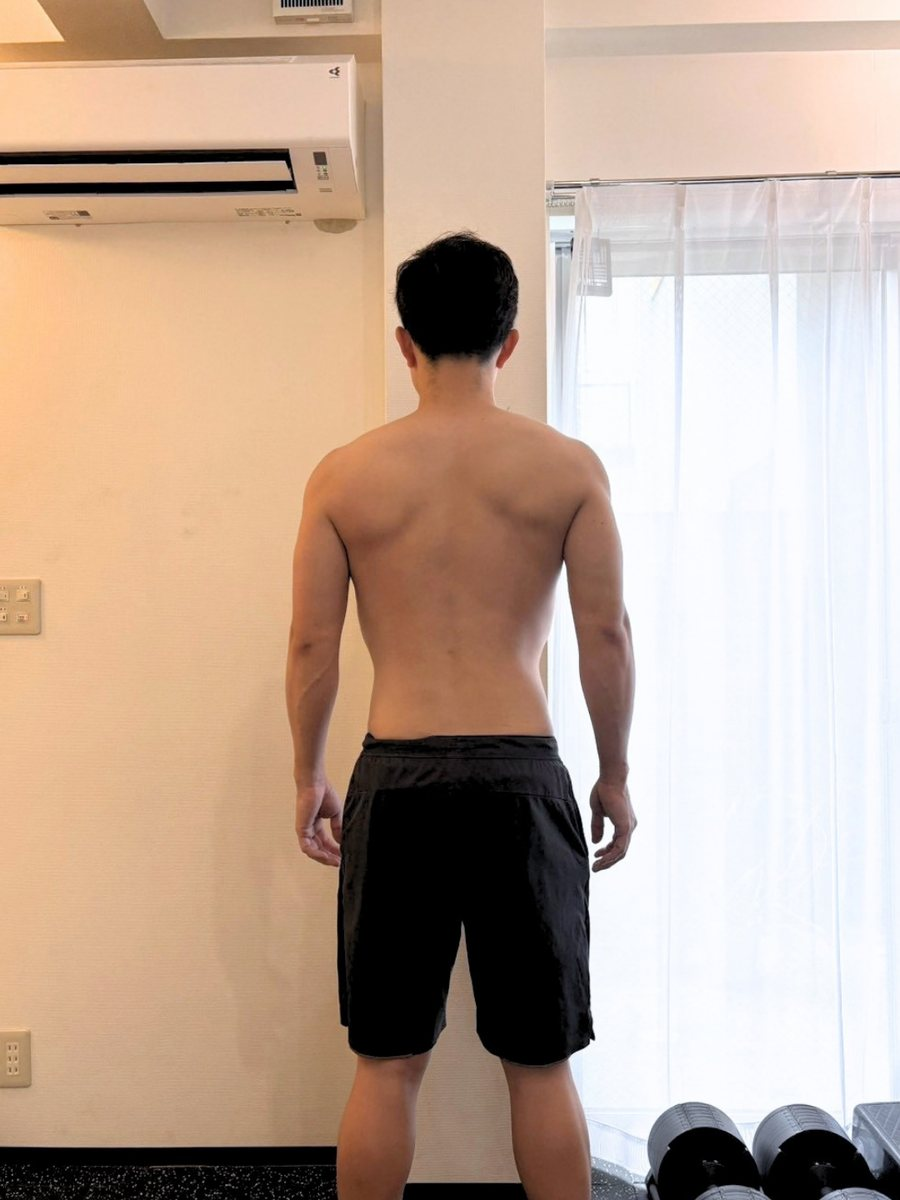
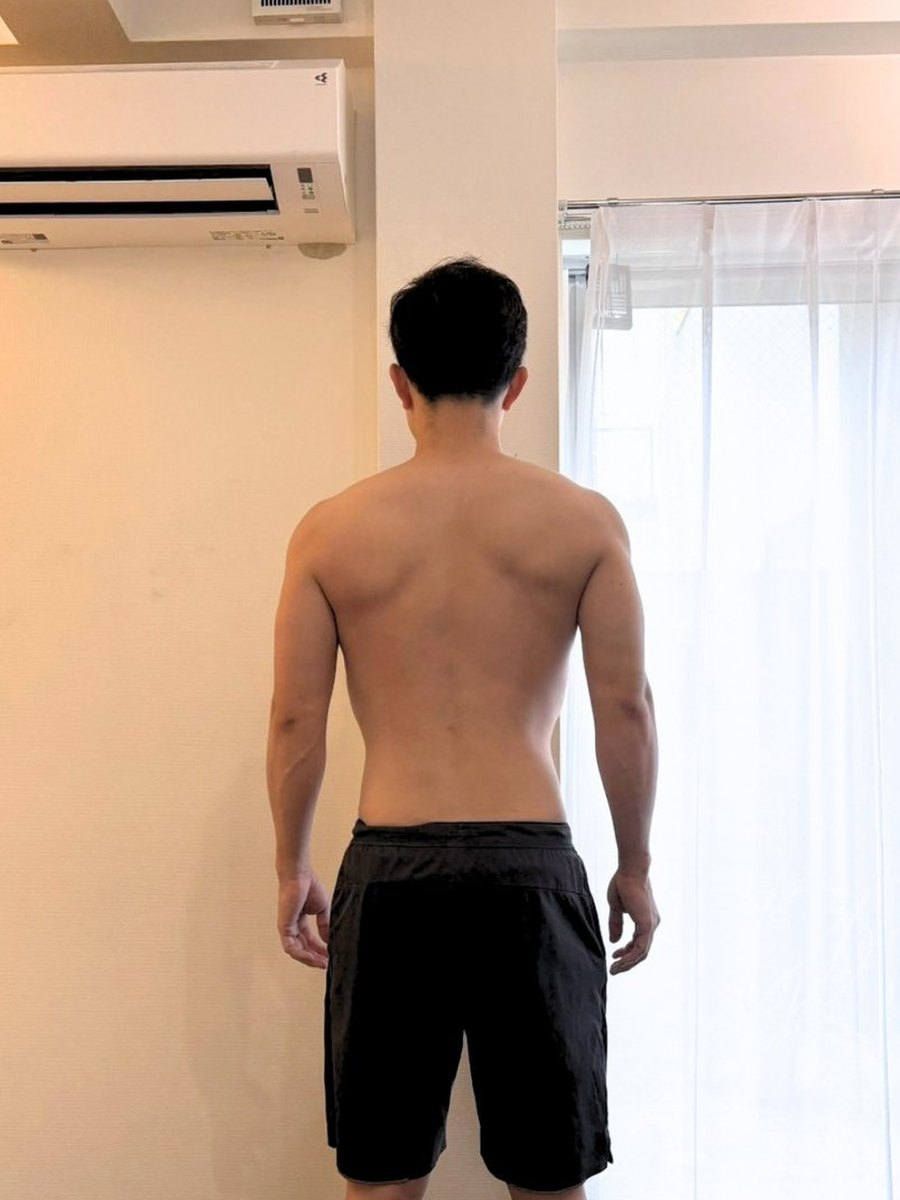
fix: トレーナー文面・料金注釈・人物1の写真を調整

diff --git a/monitor-bulkup.html b/monitor-bulkup.html
@@ -421,6 +421,10 @@ body.tm-lock{overflow:hidden}
 /* ═══ 理由カード：タイトル→写真→詳細 ═══ */
 /* ═══ 変化の記録：角度を横スワイプで切り替える ═══ */
 .cgw{display:grid;gap:22px;max-width:720px;margin:0 auto}
+/* 記録とクチコミを交互に置く。1列で読ませ、種別の見出しで取り違えを防ぐ */
+.mix{display:grid;gap:20px;max-width:620px;margin:0 auto}
+.cg-kind{font-family:'Shippori Mincho',serif;font-size:11px;letter-spacing:.14em;color:var(--gold);
+  padding:11px 18px 0}
 .cg{background:#fff;border-radius:var(--r);box-shadow:0 4px 20px rgba(27,42,71,.08);overflow:hidden}
 .cg-tabs{display:flex;border-bottom:1px solid var(--bd);background:#fff}
 .cg-tabs button{flex:1;border:0;background:none;font-family:'Shippori Mincho',serif;font-size:12.5px;
@@ -464,6 +468,8 @@ body.tm-lock{overflow:hidden}
 .rc-d{font-size:var(--fs);line-height:2.05;margin:20px 26px 26px}
 /* プログラム紹介の写真は、理由カードより縦長にして見せ場を作る */
 .rc-w.tall .rc-ph{aspect-ratio:4/3}
+/* チャット画面は縦長なので、枠を正方形にして大きく見せる */
+.rc-w.tall .rc-ph.sq{aspect-ratio:1/1}
 
 .rc-d b{font-weight:500;color:var(--navy)}
 @media(max-width:600px){
@@ -980,12 +986,13 @@ footer a{color:rgba(255,255,255,.7)}
 <div class="wrap">
 
 <section class="si">
-  <h2 class="s-ttl">実際に、<br>ここまで変わっています</h2>
+  <h2 class="s-ttl">実際に短期間で<br>ここまで変わっています</h2>
   
 
-  <p class="s-lead">実際に通われた方の記録です。<br>角度のある方は、<b>横にスワイプ</b>すると切り替わります。</p>
-  <div class="cgw">
-    <div class="cg">
+  <p class="s-lead">実際に通われた方の記録と、Googleクチコミに寄せられたお声です。<br>
+角度のある方は、<b>横にスワイプ</b>すると切り替わります。</p>
+  <div class="mix">
+    <div class="cg"><div class="cg-kind">変化の記録</div>
       <div class="cg-tabs"><button type="button" class="on" onclick="cgGo(this,0)">正面</button><button type="button" class="" onclick="cgGo(this,1)">横から</button><button type="button" class="" onclick="cgGo(this,2)">背面</button></div>
       <div class="cg-track" onscroll="cgSync(this)">
         <div class="cg-pane"><div class="cg-s"><img src="images/monitor/p1-front-before.jpg" alt="Before" loading="lazy"><span class="cg-l">Before</span></div><div class="cg-s"><img src="images/monitor/p1-front-after.jpg" alt="After" loading="lazy"><span class="cg-l cg-l-a">After</span></div></div>
@@ -995,7 +1002,15 @@ footer a{color:rgba(255,255,255,.7)}
       <div class="cg-meta"><span class="cg-term">4ヶ月<i>／</i>週1回</span><span class="cg-num">−5<small>kg</small></span></div>
       <p class="cg-hint">← 横にスワイプで角度を切り替え →</p>
     </div>
-    <div class="cg">
+    <div class="vo-c">
+      <div class="vo-h">
+        <div class="vo-av">M</div>
+        <div class="vo-m"><div class="vo-st">★★★★★</div><div class="vo-nm">Google クチコミ</div></div>
+        <span class="vo-tag">筋肥大</span>
+      </div>
+      <p class="vo-t">過去他のパーソナルにも通っていましたが、ガンガン盛り上げる雰囲気や担当がちょくちょく変わるのに違和感が…。その点カミさんはとても落ち着いていて頼れる存在です。<b>1年以上見ていただき、増量も目標通り、記録も伸び続けています。</b>トレーニングが好きになり、習慣づくりができたのが何よりありがたかったです。</p>
+    </div>
+    <div class="cg"><div class="cg-kind">変化の記録</div>
       <div class="cg-tabs"><button type="button" class="on" onclick="cgGo(this,0)">正面</button><button type="button" class="" onclick="cgGo(this,1)">横から</button><button type="button" class="" onclick="cgGo(this,2)">背面</button></div>
       <div class="cg-track" onscroll="cgSync(this)">
         <div class="cg-pane"><div class="cg-s"><img src="images/monitor/p2-front-before.jpg" alt="Before" loading="lazy"><span class="cg-l">Before</span></div><div class="cg-s"><img src="images/monitor/p2-front-after.jpg" alt="After" loading="lazy"><span class="cg-l cg-l-a">After</span></div></div>
@@ -1005,39 +1020,19 @@ footer a{color:rgba(255,255,255,.7)}
       <div class="cg-meta"><span class="cg-term">3ヶ月<i>／</i>週2回</span><span class="cg-num">−6<small>kg</small></span></div>
       <p class="cg-hint">← 横にスワイプで角度を切り替え →</p>
     </div>
-    <div class="cg">
-      <div class="cg-track" onscroll="cgSync(this)">
-        <div class="cg-pane"><div class="cg-s"><img src="images/monitor/p3-front-before.jpg" alt="Before" loading="lazy"><span class="cg-l">Before</span></div><div class="cg-s"><img src="images/monitor/p3-front-after.jpg" alt="After" loading="lazy"><span class="cg-l cg-l-a">After</span></div></div>
-      </div>
-      <div class="cg-meta"><span class="cg-term">半年<i>／</i>週1〜2回</span><span class="cg-num">−10<small>kg</small></span></div>
-    </div>
-    <div class="cg">
-      <div class="cg-track" onscroll="cgSync(this)">
-        <div class="cg-pane"><div class="cg-s"><img src="images/monitor/p4-front-before.jpg" alt="Before" loading="lazy"><span class="cg-l">Before</span></div><div class="cg-s"><img src="images/monitor/p4-front-after.jpg" alt="After" loading="lazy"><span class="cg-l cg-l-a">After</span></div></div>
-      </div>
-      <div class="cg-meta"><span class="cg-term">3ヶ月<i>／</i>月3回</span><span class="cg-num">−12<small>kg</small></span></div>
-    </div>
-  </div>
-  <p class="vo-note">※ ご本人の許諾を得て掲載しています。個人の感想であり、効果を保証するものではありません。</p>
-
-  <h2 class="s-ttl" style="margin-top:var(--sec)">お客様の声</h2>
-  <p class="s-lead">Googleクチコミに寄せられた実際のお声です。</p>
-  <div class="vo">
-    <div class="vo-c">
-      <div class="vo-h">
-        <div class="vo-av">M</div>
-        <div class="vo-m"><div class="vo-st">★★★★★</div><div class="vo-nm">Google クチコミ</div></div>
-        <span class="vo-tag">筋肥大</span>
-      </div>
-      <p class="vo-t">過去他のパーソナルにも通っていましたが、ガンガン盛り上げる雰囲気や担当がちょくちょく変わるのに違和感が…。その点カミさんはとても落ち着いていて頼れる存在です。<b>1年以上見ていただき、増量も目標通り、記録も伸び続けています。</b>トレーニングが好きになり、習慣づくりができたのが何よりありがたかったです。</p>
-    </div>
     <div class="vo-c">
       <div class="vo-h">
         <div class="vo-av">T</div>
         <div class="vo-m"><div class="vo-st">★★★★★</div><div class="vo-nm">Google クチコミ</div></div>
         <span class="vo-tag">フォーム</span>
       </div>
-      <p class="vo-t">初パーソナル。オシャレなアパートの中に、筋トレ器具がしっかり揃ったジムでした。<b>沖さんに教わって、筋トレの質がめちゃくちゃ上がりました。フォームや力の入れ方のアドバイスが的確です。</b>閑静な住宅街にあって、女性でも安心して通えます。</p>
+      <p class="vo-t">初パーソナル。オシャレなアパートの中に、筋トレ器具がしっかり揃ったジムでした。<b>沖さんに教わって、筋トレの質がめちゃくちゃ上がりました。フォームや力の入れ方のアドバイスが的確です。</b></p>
+    </div>
+    <div class="cg"><div class="cg-kind">変化の記録</div>
+      <div class="cg-track" onscroll="cgSync(this)">
+        <div class="cg-pane"><div class="cg-s"><img src="images/monitor/p3-front-before.jpg" alt="Before" loading="lazy"><span class="cg-l">Before</span></div><div class="cg-s"><img src="images/monitor/p3-front-after.jpg" alt="After" loading="lazy"><span class="cg-l cg-l-a">After</span></div></div>
+      </div>
+      <div class="cg-meta"><span class="cg-term">半年<i>／</i>週1〜2回</span><span class="cg-num">−10<small>kg</small></span></div>
     </div>
     <div class="vo-c">
       <div class="vo-h">
@@ -1047,7 +1042,14 @@ footer a{color:rgba(255,255,255,.7)}
       </div>
       <p class="vo-t">体験時に丁寧に教えていただき、入会を決めました。<b>トレーニングだけでなく姿勢や食事、呼吸の仕方など細かく教えていただき</b>、まだ始めたばかりですが成長を感じており満足しています。</p>
     </div>
+    <div class="cg"><div class="cg-kind">変化の記録</div>
+      <div class="cg-track" onscroll="cgSync(this)">
+        <div class="cg-pane"><div class="cg-s"><img src="images/monitor/p4-front-before.jpg" alt="Before" loading="lazy"><span class="cg-l">Before</span></div><div class="cg-s"><img src="images/monitor/p4-front-after.jpg" alt="After" loading="lazy"><span class="cg-l cg-l-a">After</span></div></div>
+      </div>
+      <div class="cg-meta"><span class="cg-term">3ヶ月<i>／</i>月3回</span><span class="cg-num">−12<small>kg</small></span></div>
+    </div>
   </div>
+  <p class="vo-note">※ 写真とクチコミは、それぞれ別の方のものです。いずれもご本人の許諾を得て、または Googleクチコミより引用して掲載しています。個人の感想であり、効果を保証するものではありません。</p>
   <p class="vo-note">※ Googleクチコミより引用（★5.0・多数掲載）。個人の感想であり、効果を保証するものではありません。</p>
 </section>
 
@@ -1101,7 +1103,7 @@ footer a{color:rgba(255,255,255,.7)}
         <div class="rc-n">02</div>
         <div class="rc-t">毎日の食事に、個別フィードバック</div>
       </div>
-      <div class="rc-ph" data-ph="食事フィードバックの画面"><img src="images/monitor/rebuild-meal-fb.jpg" alt="毎日の食事記録へのフィードバック画面" loading="lazy"></div>
+      <div class="rc-ph sq" data-ph="食事フィードバックの画面"><img src="images/monitor/rebuild-meal-fb.jpg" alt="毎日の食事記録へのフィードバック画面" loading="lazy"></div>
       <p class="rc-d">週1回の指導では、7日のうち6日が野放しになります。本プログラムは<b>毎日の食事記録に対して個別にお返し</b>します。目標カロリーとPFCを設計し、「あと何をどれだけ足すか」を日々調整。食べられない方には、無理なく量を増やす方法からお伝えします。</p>
     </div>
     <div class="rc">
@@ -1157,10 +1159,10 @@ footer a{color:rgba(255,255,255,.7)}
           <h3 class="tr-name">沖 孟</h3>
           <span class="tr-name-en">Takeru Oki</span>
           <span class="tr-exp">指導歴 5年</span>
-          <p class="tr-bio">重要なのは体重より“見た目”。姿勢から整えることで、あなたの骨格のポテンシャルを最大限引き出し、理想のボディラインに近づけます。年間2,000件以上、多くの女性のボディラインを指導する中で確信したのは——</p>
+          <p class="tr-bio">重要なのは体重より“見た目”。姿勢から整えることで、あなたの骨格のポテンシャルを最大限引き出し、理想のボディラインに近づけます。年間2,000件以上の指導を重ねる中で確信したのは——</p>
           <button type="button" class="tr-more" onclick="openTrainerModal('oki')">続きを読む</button>
           <div class="tr-tags">
-            <span class="tr-tag">女性のボディメイク</span><span class="tr-tag">姿勢・骨盤矯正</span><span class="tr-tag">BBJファイナル</span><span class="tr-tag">一般体操指導員</span>
+            <span class="tr-tag">ボディメイク</span><span class="tr-tag">姿勢・骨盤矯正</span><span class="tr-tag">BBJファイナル</span><span class="tr-tag">一般体操指導員</span>
           </div>
           <div class="tr-ig"><a href="https://www.instagram.com/takeru_fitness_/" target="_blank"><svg viewBox="0 0 24 24"><rect x="3.5" y="3.5" width="17" height="17" rx="5"/><circle cx="12" cy="12" r="4"/><circle cx="17.2" cy="6.8" r="1" fill="var(--gold)" stroke="none"/></svg></a></div>
         </div>
@@ -1179,7 +1181,7 @@ footer a{color:rgba(255,255,255,.7)}
           <p class="tr-bio">どんな状態からでも、あなたの身体は必ず変わります。「スタイルは、生まれつきで決まっている」——そう思い込んでいませんか？違います。身体は、デザインできる。骨格という土台を活かし、狙った場所へ筋肉を足していけば——</p>
           <button type="button" class="tr-more" onclick="openTrainerModal('nakano')">続きを読む</button>
           <div class="tr-tags">
-            <span class="tr-tag">モデル・アスリート指導</span><span class="tr-tag">ヒップ育成</span><span class="tr-tag">大会日本8位</span><span class="tr-tag">英語対応</span>
+            <span class="tr-tag">モデル・アスリート指導</span><span class="tr-tag">肩・背中の育成</span><span class="tr-tag">大会日本8位</span><span class="tr-tag">英語対応</span>
           </div>
           <div class="tr-ig"><a href="https://www.instagram.com/fit_ryunosuke/" target="_blank"><svg viewBox="0 0 24 24"><rect x="3.5" y="3.5" width="17" height="17" rx="5"/><circle cx="12" cy="12" r="4"/><circle cx="17.2" cy="6.8" r="1" fill="var(--gold)" stroke="none"/></svg></a></div>
         </div>
@@ -1259,7 +1261,7 @@ footer a{color:rgba(255,255,255,.7)}
         <span class="sub">必須ではありません。顔を伏せてのご掲載も承ります。ご協力いただける範囲によって、モニター特別価格が変わります。</span></li>
     </ul>
     <p class="rq-f">これらにご協力いただける方のなかから、<br>選考のうえ5名様をお迎えします。</p>
-    <p class="rq-note">本プログラムは<b>モニター特別価格でのご提供</b>です（無償提供ではありません）。<br>金額・お支払い方法は、体験時に書面でご案内します。</p>
+    <p class="rq-note">本プログラムは<b>モニター特別価格でのご提供</b>です。<br>金額・お支払い方法は、体験時に書面でご案内します。</p>
   </div>
 </section>
 
@@ -1334,7 +1336,7 @@ footer a{color:rgba(255,255,255,.7)}
   <div class="cta-t">まずは、最適なやり方を<br>知ることから始めませんか。</div>
   <p class="cta-s">まずはトレーナーに、気軽にご相談ください。<br>あなたの骨格と目標をうかがったうえで、<br>具体的な進め方をその場でご案内します。</p>
   <a class="cta-b" href="https://reservation.tokowaka-gym.com/" data-cta="footer" onclick="return goRsv(this)">モニターに申し込む</a>
-  <p class="cta-note">モニター特別価格でのご案内です（無償提供ではありません）<br><b>10月31日（金）応募締切</b>／選考のうえ5名様をお迎えします</p>
+  <p class="cta-note">モニター特別価格でのご案内です<br><b>10月31日（金）応募締切</b>／選考のうえ5名様をお迎えします</p>
 </div>
 
 <footer>
@@ -1369,14 +1371,14 @@ var TRAINER_PROFILES={
  oki:{name:'沖 孟',en:'Takeru Oki',short:'沖',ig:'https://www.instagram.com/takeru_fitness_/',
   img:'https://tokowaka-gym.com/images/trainer03.jpg',
   badges:['BBJファイナリスト','一般体操指導員','指導歴5年'],
-  target:'見た目・ラインを気にする女性へ',
+  target:'体重より見た目を変えたい方へ',
   hook:'「頑張らないのに、気づけば身体が変わってる。」',
   sub:'重要なのは体重より<strong>“見た目”</strong>。姿勢から整えることで、あなたの骨格のポテンシャルを最大限引き出し、理想のボディラインに近づけます。',
   secs:[
-   {label:'CONCEPT｜骨格矯正トレーニング',img:'trainer-baf/oki-ideal.jpg',ph:'超理想像写真',body:'年間2,000件以上、たくさんの女性のボディラインを指導する中で、<strong>『女性のボディメイクこそ、高度な技術が必要』</strong>と確信しました。<br>トレーニングは筋肉を大きく成長させる行為です。だからこそやみくもにトレーニングをしてしまうと、ボディバランスを崩し、女性らしい綺麗なボディラインをつくることはできません。<br>そこで私があみだしたメソッドが、<strong>骨格矯正トレーニング</strong>です。まずは根本の歪みを整え、全体のシルエットから逆算して筋肉をつけていくことで、女性らしい健康的な美ボディを作ります。'},
+   {label:'CONCEPT｜骨格矯正トレーニング',img:'trainer-baf/oki-ideal.jpg',ph:'超理想像写真',body:'年間2,000件以上の指導を重ねる中で、<strong>『ボディメイクこそ、高度な技術が必要』</strong>と確信しました。<br>トレーニングは筋肉を大きく成長させる行為です。だからこそやみくもにトレーニングをしてしまうと、ボディバランスを崩し、狙った形に仕上げることはできません。<br>そこで私があみだしたメソッドが、<strong>骨格矯正トレーニング</strong>です。まずは根本の歪みを整え、全体のシルエットから逆算して筋肉をつけていくことで、バランスの取れた身体を作ります。'},
    {label:'STORY｜私自身の物語',ba:true,imgBefore:'trainer-baf/oki-before.jpg',imgAfter:'trainer-baf/oki-after.jpg',body:'かつての私は、<strong>自己流でどれだけ努力しても、思うように筋肉がつきませんでした。</strong>頑張っているのに体が変わらない——その悔しさは、痛いほど分かります。<br>変わったのは、自己流をやめて「骨格から整えて、狙った筋肉へ正しく効かせる」ことにたどり着いてから。自分の体が驚くほど変わり、最終的には<strong>ベストボディジャパンのファイナル</strong>の舞台へ立てました。<br>やり方さえ正しければ、体は必ず応えてくれる。変われない人なんて、いません。'},
    {label:'SESSION｜あなたへ',img:'trainer-baf/oki-session.jpg',ph:'セッション風景',body:'「たった一回のトレーニングで、見た目がスッキリした」「無理してないのに、いい姿勢が自然ととれる」——お客様から、そんな声をよくいただきます。<br>秘密は、歪みを整えて、あなたが本来持っている正しい姿勢に戻してあげること。それだけで、体は驚くほど引き締まって見えます。<br>だから、運動が苦手な初心者さんでも大丈夫。<strong>最初から苦しいトレーニングはしません。</strong>歪みを整えて、体の正しい使い方を覚えていくのが第一歩です。<br>まずはお気軽に、姿勢診断でご自身の現在地を知りに来てください。'}],
-  tags:['女性のボディメイク','姿勢・骨盤矯正','不調改善（肩こり・腰痛）','BBJファイナル','一般体操指導員']},
+  tags:['ボディメイク','姿勢・骨盤矯正','不調改善（肩こり・腰痛）','BBJファイナル','一般体操指導員']},
  nakano:{name:'中野 龍之介',en:'Ryunosuke Nakano',short:'中野',ig:'https://www.instagram.com/fit_ryunosuke/',
   img:'https://tokowaka-gym.com/images/trainer01.jpg',
   badges:['大会日本8位','オーナートレーナー','指導歴6年','英語対応'],
@@ -1385,10 +1387,10 @@ var TRAINER_PROFILES={
   sub:'どんな状態からでも、あなたの身体は必ず変わります。',
   secs:[
    {label:'CONCEPT｜身体はデザインできる',img:'trainer-baf/nakano-ideal.jpg',ph:'超理想像写真',body:'「スタイルは、生まれつきで決まっている」——そう思い込んでいませんか？違います。<strong>身体は、デザインできる。</strong><br>骨格という土台を活かし、狙った場所へ筋肉を足していけば、あなたの身体は思い通りに変わります。<br>「運動が苦手だから」と、諦める必要もありません。難しく見える動きも、<strong>やり方を知らないだけ</strong>。段階的なステップを踏めば、誰でもできるようになります。'},
-   {label:'STORY｜私自身の物語',ba:true,imgBefore:'trainer-baf/nakano-before.jpg',imgAfter:'trainer-baf/nakano-after.jpg',body:'私はかつて、海外モデルやミスコンファイナリスト、日本代表アスリートを指導していました。でもある時期、<strong>トレーニングを完全に手放した</strong>んです。<br>飛び込んだITベンチャーでの長時間労働。運動も食事もケアも後回しになり、気づけば「常に調子が悪い」「疲れが取れない」「自分の身体が好きになれない」——それが当たり前になっていました。<br>その経験から、私は忙しくても続けられる、時間効率の高いトレーニングを徹底的に研究しました。そして週1回だった頻度を段階的に増やし、<strong>たった4ヶ月で予選2位・大会日本8位</strong>を獲得。最短で成果を出す技術は、自分自身で証明しています。あなたも、必ず変われます。'},
-   {label:'SESSION｜私の強み',img:'trainer-baf/nakano-session.jpg',ph:'セッション風景',body:'<strong>「身体はデザインできる」——それを、どんなに忙しいあなたでも実現する。</strong>それが私の強みです。<br>あなたの骨格や身体の使い方を見極め、ゴールから逆算して、今のあなたに必要なことだけを最短で。実際に「3ヶ月でウエスト−13cm、体重−12kg」といった声もいただいています。<br>ヒップ育成・筋肥大・バルクアップから体型改善まで、「こんな身体になりたい」という理想があるなら、それを一緒に設計するのが私の仕事です。'},
+   {label:'STORY｜私自身の物語',ba:true,imgBefore:'trainer-baf/nakano-before.jpg',imgAfter:'trainer-baf/nakano-after.jpg',body:'私はかつて、海外モデルや日本代表アスリートを指導していました。でもある時期、<strong>トレーニングを完全に手放した</strong>んです。<br>飛び込んだITベンチャーでの長時間労働。運動も食事もケアも後回しになり、気づけば「常に調子が悪い」「疲れが取れない」「自分の身体が好きになれない」——それが当たり前になっていました。<br>その経験から、私は忙しくても続けられる、時間効率の高いトレーニングを徹底的に研究しました。そして週1回だった頻度を段階的に増やし、<strong>たった4ヶ月で予選2位・大会日本8位</strong>を獲得。最短で成果を出す技術は、自分自身で証明しています。あなたも、必ず変われます。'},
+   {label:'SESSION｜私の強み',img:'trainer-baf/nakano-session.jpg',ph:'セッション風景',body:'<strong>「身体はデザインできる」——それを、どんなに忙しいあなたでも実現する。</strong>それが私の強みです。<br>あなたの骨格や身体の使い方を見極め、ゴールから逆算して、今のあなたに必要なことだけを最短で。実際に「3ヶ月で体重−12kg、ウエスト−13cm」といった声もいただいています。<br>筋肥大・バルクアップから体型改善まで、「こんな身体になりたい」という理想があるなら、それを一緒に設計するのが私の仕事です。'},
    {label:'なぜTOKOWAKAをつくったのか',noimg:true,note:true,body:'正しい運動・食事・休息は、人によって最適解がまるで違います。これだけ情報が溢れた時代でも、“自分に合う方法”にたどり着くのは本当に難しい。<br>だからこそ我々は、パーソナルトレーニングという形で、一人ひとりに向き合うことにしました。少しずつ身体が整い、毎日が豊かになっていく人を増やしたい。<strong>その想いから、TOKOWAKAを作っています。</strong><br>「理想はあるけど、自分には無理かもしれない」という気持ちごと、持ってきてください。あなたの理想を、一緒に本気で設計します。'}],
-  tags:['大会日本8位','ヒップ育成','筋肥大・バルクアップ','時間効率設計','モデル・アスリート指導','英語対応']}};
+  tags:['大会日本8位','肩・背中の育成','筋肥大・バルクアップ','時間効率設計','モデル・アスリート指導','英語対応']}};
 function renderTrainerModal(k){
  var t=TRAINER_PROFILES[k];if(!t)return'';
  var h='<div class="tm-bar"><button class="tm-x" type="button" onclick="closeTrainerModal()" aria-label="閉じる">×</button></div>';
